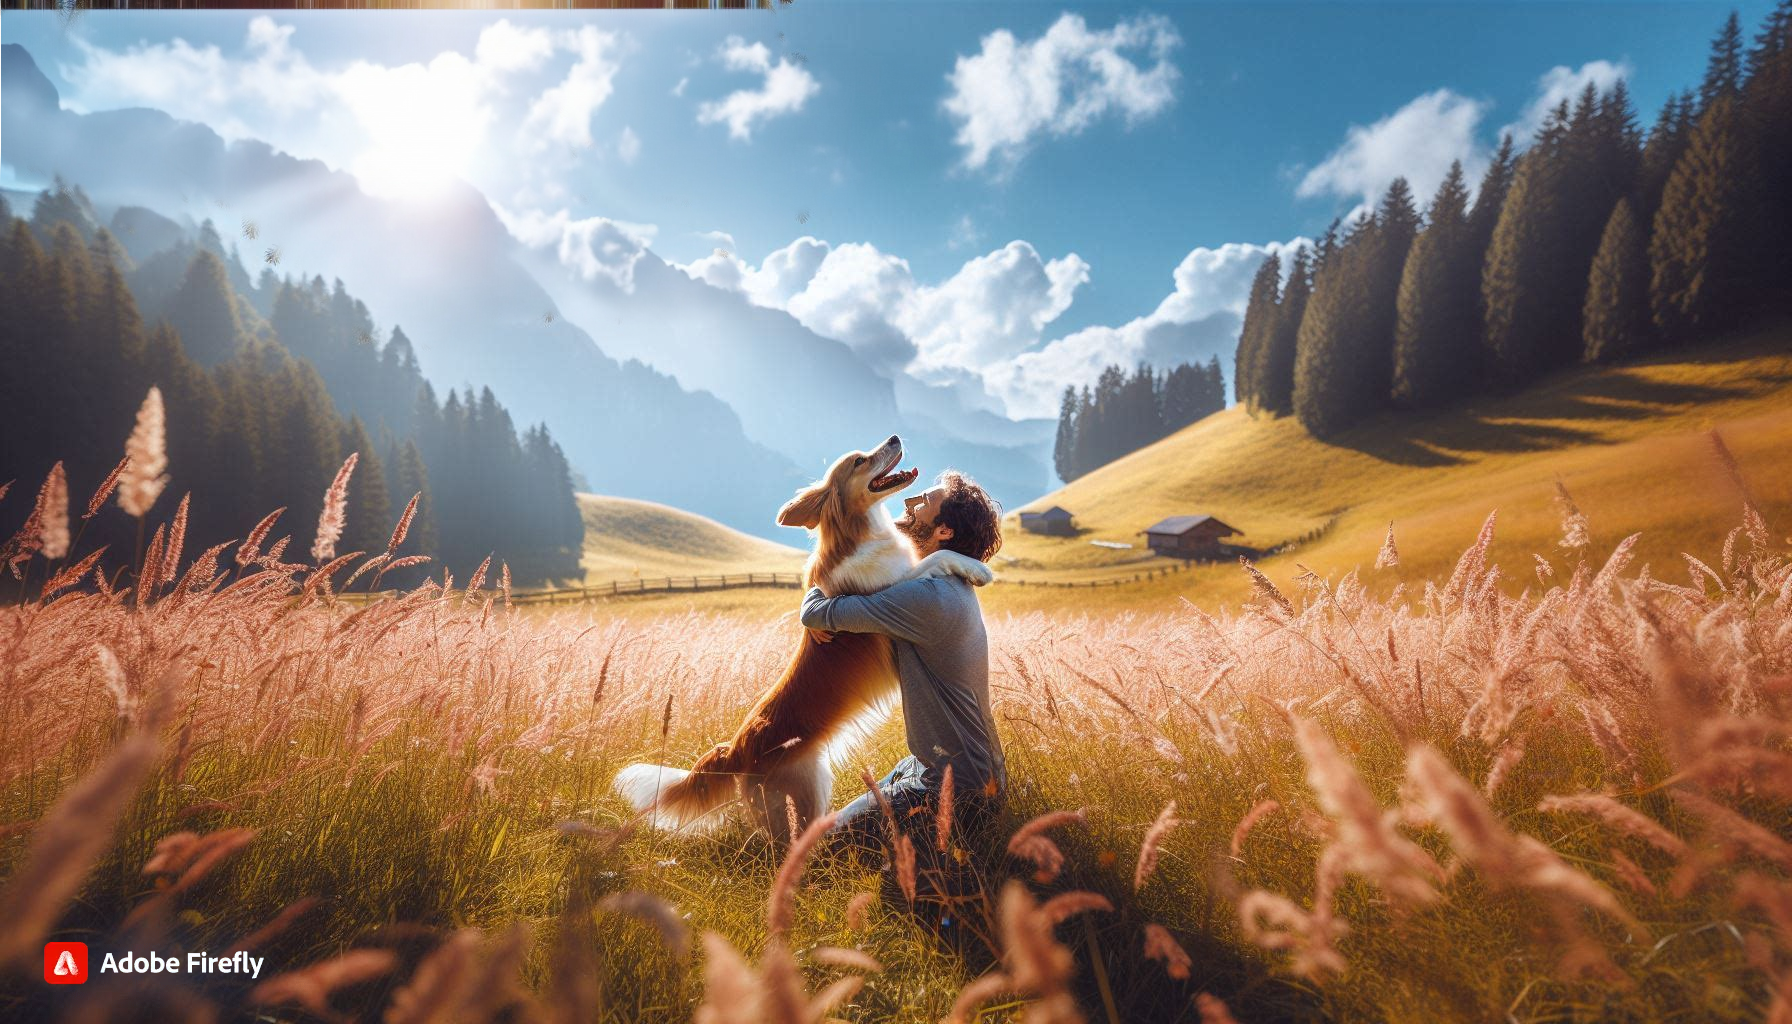
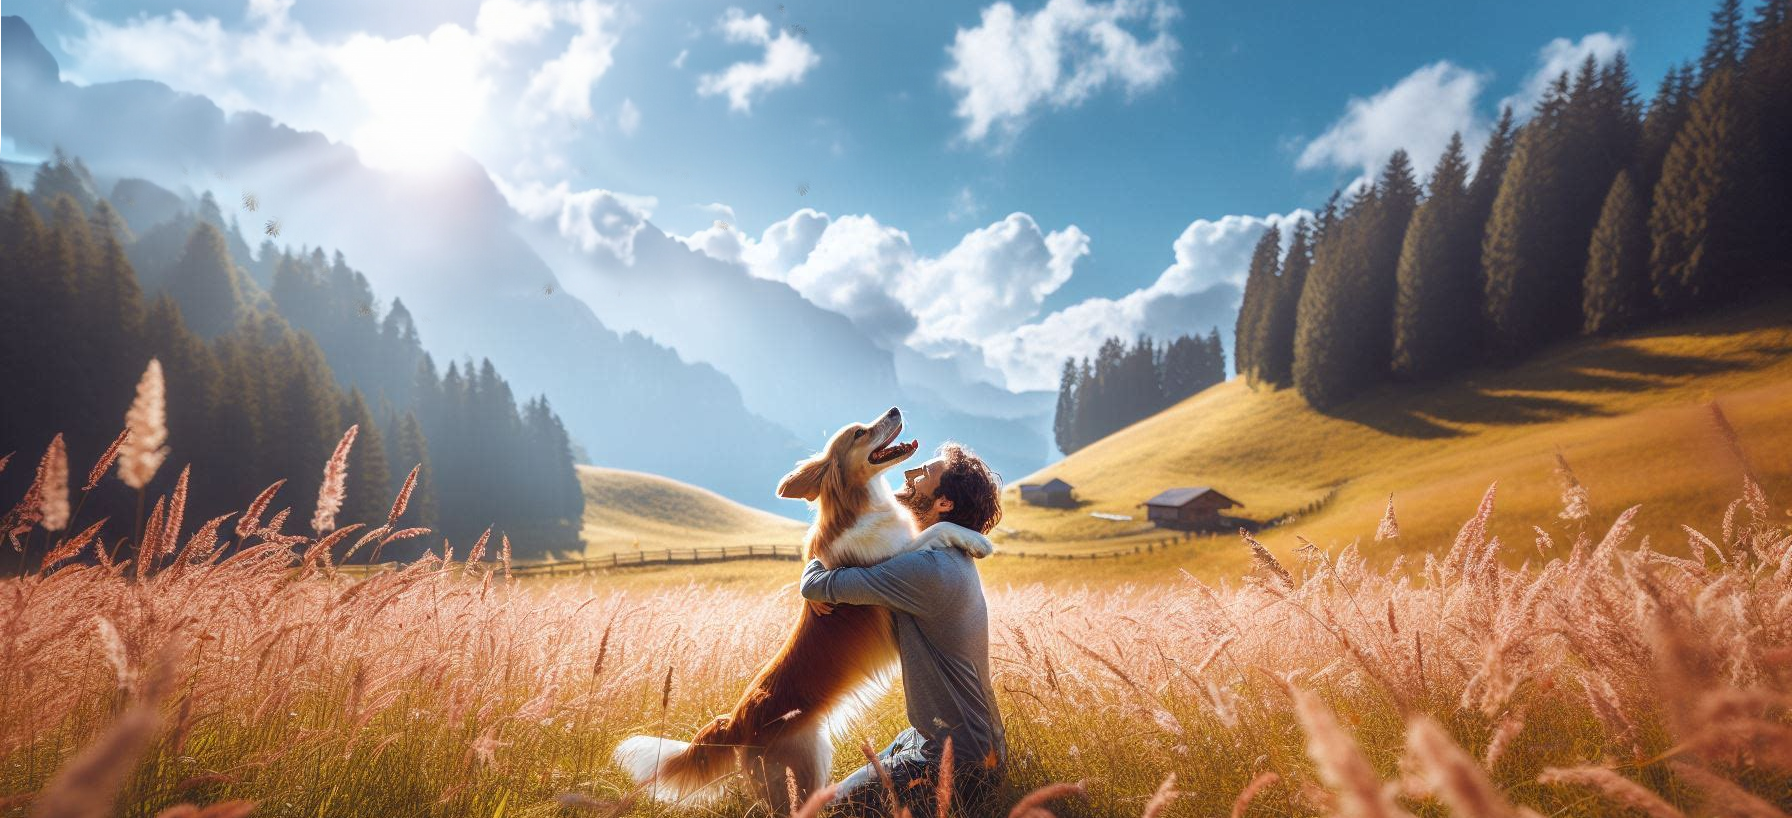
second push

diff --git a/index.html b/index.html
@@ -31,48 +31,115 @@
       position: absolute;
       bottom: 0;
       z-index: 5;
-      /* height: 60%; */
+      object-fit: cover;
+      height: 55vh;
       /* This will keep img1 at the bottom of the parent section */
+      /* display: none; */
     }
 
     .img2 {
-      position: sticky;
+      /* position: sticky;
       top: 0;
+      width: 100vw; */
+      display: none;
     }
 
     .img3 {
       /* width: 40%; */
-      position: absolute;
+      /* position: absolute;
       right: 0;
-      top: 0;
+      top: 0; */
+      display: none;
 
     }
 
     .img4 {
-      position: absolute;
       /* width: 50%; */
+      /* position: absolute;
       left: 0;
-      bottom: 25%;
+      bottom: 25%; */
+      display: none;
     }
 
-    .img5 {
+    .img6 {
+      width: 100vw;
       position: absolute;
+      height: 100vh;
+      object-fit: cover;
+    }
+
+
+    .img5 {
+      /* position: absolute;
+      display: none; */
       /* width: 50%; */
       /* left: 0; */
+      display: none;
+    }
+
+    .img7 {
+      position: absolute;
+      top: 0;
+      left: 0;
+      scale: 1;
+      display: none;
     }
 
     .landingSection h1 {
       z-index: 4;
       position: absolute;
-      top: 50%;
+      top: 40%;
       left: 50%;
       transform: translate(-50%, -50%);
       font-size: 7rem;
+      text-shadow: 0px 5px 10px rgba(0, 0, 0, 0.749);
     }
 
     .data {
       z-index: 50;
       background-color: black;
+    }
+
+    @media screen and (max-width: 768px) {
+
+      .img1 {
+        height: 50vh;
+        width: 100vw;
+        object-fit: cover;
+        display: block;
+      }
+
+      .img4 {
+        width: 50vh;
+        display: none;
+      }
+
+      .img2 {
+        /* scale: (10); */
+        display: none;
+      }
+
+      .img3,
+      .img7 {
+        display: none;
+      }
+
+      .img6 {
+        display: block;
+        width: 100vw;
+        position: absolute;
+        height: 100vh;
+        object-fit: cover;
+      }
+
+      .landingSection h1 {
+        position: absolute;
+        top: 50%;
+        left: 50%;
+        font-size: 2rem;
+        transform: translate(-50%, -50%);
+        background-color: red;
+      }
     }
   </style>
 </head>
@@ -80,10 +147,12 @@
 <body>
   <div class="landingSection">
     <img class="img1" src="/img/base.png" alt="">
-    <img class="img2" src="/img/sky original.png" alt="">
+    <img class="img2" src="/img/sky2.png" alt="">
     <img class="img3" src="/img/right bushes.png" alt="">
     <img class="img4" src="/img/Untitled-1.png" alt="">
-    <!-- <img class="img5" src="/img/Firefly 20240329103753.png" alt=""> -->
+    <img class="img5" src="/img/Firefly 20240329103753.png" alt="">
+    <img class="img6" src="/img/img.png" alt="">
+    <img class="img7" src="/img/leaf.png" alt="">
     <h1>Aman&Bully</h1>
   </div>
   <div class="data">
@@ -160,52 +229,29 @@
   </div>
 
   <script>
+    let rightimg = document.querySelector('.img3');
+    let leftimg = document.querySelector('.img4');
+    let topimg = document.querySelector('.img2');
+    let baseimg = document.querySelector('.img1');
+    let title = document.querySelector('h1');
 
-    let rightimg = document.getElementsByClassName('img3')[0];
-    let leftimg = document.getElementsByClassName('img4')[0];
-    let topimg = document.getElementsByClassName('img2')[0];
-    let baseimg = document.getElementsByClassName('img1')[0];
-    let title = document.querySelector('h1')
-    document.addEventListener("scroll", (event) => {
-      var positionY = window.scrollY;
-
-      title.style.fontSize = `${100 + positionY * 0.35}px`;
-
-      // bg_2.style.right = `-${positionY * 0.2}px`;
-      // bg_3.style.left = `-${positionY * 0.15}px`;
-      // bg_3.style.scale = 1 + positionY * 0.001;
+    document.addEventListener("scroll", () => {
+      let positionY = window.scrollY;
 
       topimg.style.top = `-${positionY * 0.5}px`;
-      // rightimg.style.right = `-${positionY * 0.5}px`;
-      rightimg.style.top = `-${positionY * 0.15}px`;
-      // leftimg.style.left = `-${positionY * 0.5}px`;
-      // leftimg.style.bottom = `25% +${positionY * 0.45}px`;
+      rightimg.style.right = `-${positionY * 0.5}px`;
+      leftimg.style.left = `-${positionY * 0.5}px`;
       leftimg.style.bottom = `${25 + positionY * 0.01}%`;
+      baseimg.style.bottom = `${positionY * 0.15}px`;
 
-
-
-
-
-      image_card_1.style.transform = `translateY(${positionY * -0.5 + 400
-        }px)`;
-
-      image_card_2.style.transform = `translateY(${positionY * 0.1 + -50}px)`;
-
-      image_card_3.style.transform = `translateY(${positionY * -0.1 + 100
-        }px)`;
-
-      image_card_4.style.transform = `translateY(${positionY * 0.2 + -125
-        }px)`;
-
-      var _newOpacity = positionY * 0.001;
-      if (_newOpacity >= 0 && _newOpacity <= 1) {
-        image_card_1.style.opacity = _newOpacity;
-        image_card_2.style.opacity = _newOpacity;
-        image_card_3.style.opacity = _newOpacity;
-        image_card_4.style.opacity = _newOpacity;
+      if (window.innerWidth < 768) {
+        title.style.fontSize = `${100 + positionY * 0.35}px`;
+      } else {
+        title.style.fontSize = `${100 + positionY * 0.5}px`;
       }
     });
   </script>
+
 </body>
 
 
